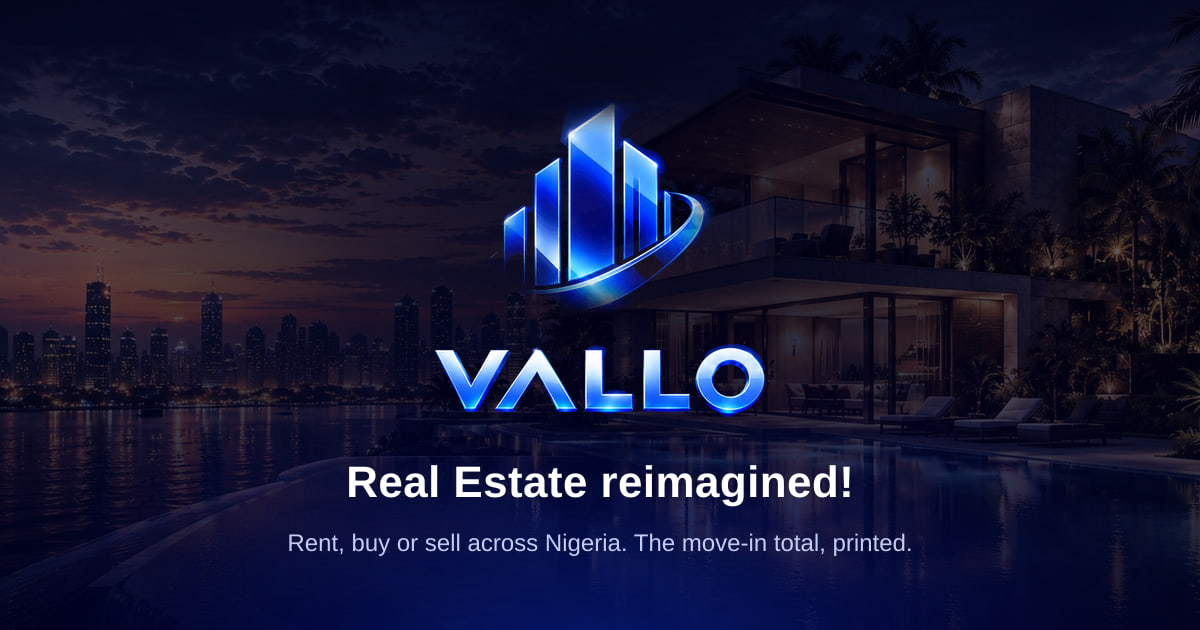
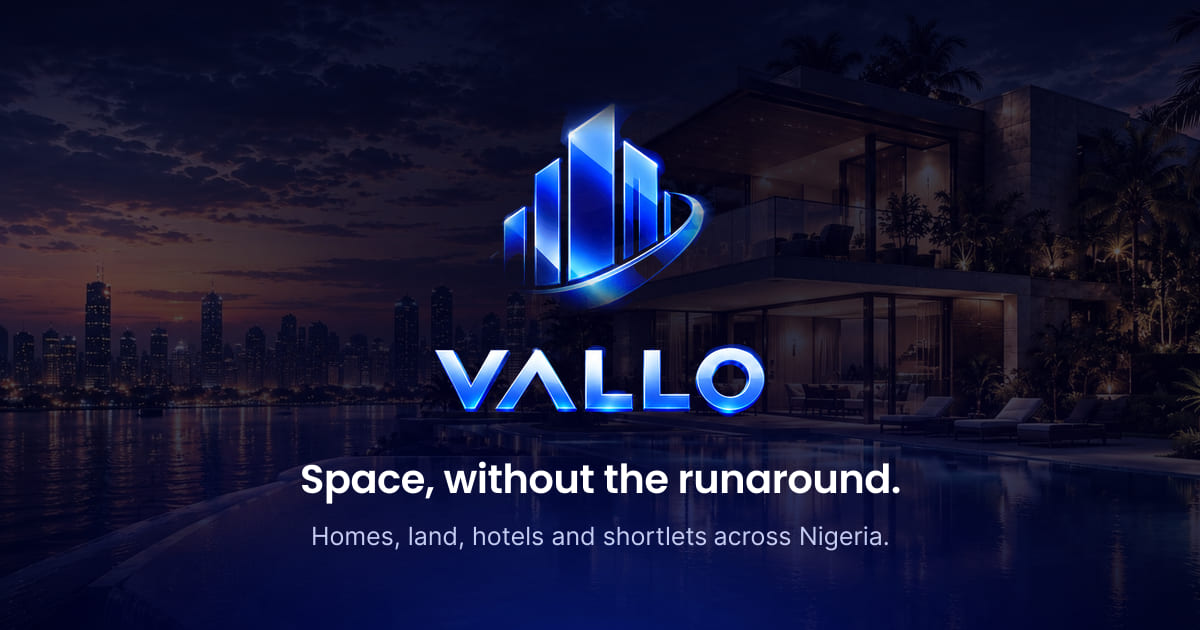
Link previews: every public page unfurls with a picture and its own words
Measured on a running server: /terms, /privacy, /docs, /contact, the auth
pages, /join/<code>, a listing with no photo and others had no og:image
(a page's openGraph replaces the layout's), so they unfurled blank; /check
and every docs chapter showed the home page's words over their own card;
twitter:title was the slogan everywhere; the root card still said "Real
Estate reimagined!"; and the Price Check card's footer printed a domain that
was never registered. Public pages without their own card now name the site
card through publicPageMetadata, as do join, docs chapters and listings with
no photo; /check has its own words; the root layout's twitter block is the
card type only, so each page's Twitter fields come from its own Open Graph;
the footer uses BRAND_DOMAIN; the root card is regenerated on the D1 slogan
and sized to the centre square (117,506 to 96,140 B).

Changed region(s): [[0.2467, 0.7238, 0.7708, 0.8143], [0.2158, 0.8444, 0.7708, 0.8746]]

diff --git a/apps/web/src/lib/site/site-card.test.ts b/apps/web/src/lib/site/site-card.test.ts
@@ -1,0 +1,90 @@
+import { existsSync, readdirSync, readFileSync, statSync } from "node:fs";
+import { dirname, join, relative } from "node:path";
+import { describe, expect, it } from "vitest";
+import { BRAND_DOMAIN } from "@/lib/brand-domain";
+import { SHARE_CARD_FOOTER } from "@/lib/price-check/disclaimer";
+import { OWN_CARD, SITE_CARD } from "./site-card";
+
+/**
+ * NO LINK UNFURLS BLANK, AND NONE UNFURLS AS ANOTHER PAGE (W3, round 5).
+ *
+ * Measured on a running server before this: /terms, /privacy, /docs,
+ * /contact, /sign-in and the invite door /join/<code> carried no og:image at
+ * all, /check and every docs chapter carried the HOME page's og:title and
+ * description over their own card, and every page's twitter:title was the
+ * slogan. Next replaces a layout's whole `openGraph` with a page's, image
+ * included, so these rules are about the source, and this reads it.
+ */
+
+const APP = join(__dirname, "..", "..", "app");
+const ROOT_LAYOUT = join(APP, "layout.tsx");
+
+function pages(dir: string, out: string[] = []): string[] {
+  for (const name of readdirSync(dir)) {
+    const path = join(dir, name);
+    if (statSync(path).isDirectory()) pages(path, out);
+    else if (name === "page.tsx") out.push(path);
+  }
+  return out;
+}
+
+const PUBLIC_TREES = ["(site)", "(auth)", "(landing)", "join", "s"].map((tree) => join(APP, tree)).filter(existsSync);
+const PUBLIC_PAGES = PUBLIC_TREES.flatMap((tree) => pages(tree));
+const hasOwnCard = (page: string) => readdirSync(dirname(page)).some((name) => name.startsWith("opengraph-image."));
+const source = (page: string) => readFileSync(page, "utf8");
+
+describe("every public page unfurls with a picture and its own words", () => {
+  it("finds the public pages", () => {
+    expect(PUBLIC_PAGES.length).toBeGreaterThan(30);
+  });
+
+  it("holds OWN_CARD to the cards on disk", () => {
+    const declared = new Map<string, boolean>();
+    for (const page of PUBLIC_PAGES) {
+      const key = /publicPageMetadata\(\s*"([A-Za-z]+)"/.exec(source(page))?.[1];
+      if (key) declared.set(key, hasOwnCard(page));
+    }
+    expect(declared.size).toBeGreaterThan(10);
+    for (const [key, own] of declared) expect(OWN_CARD.has(key as never), key).toBe(own);
+  });
+
+  it("names the site's card wherever a page writes its own Open Graph and draws no card", () => {
+    const blank = PUBLIC_PAGES.filter((page) => {
+      const src = source(page);
+      if (!/openGraph\s*:/.test(src) || hasOwnCard(page)) return false;
+      return !/SITE_CARD/.test(src);
+    }).map((page) => relative(APP, page));
+    expect(blank).toEqual([]);
+  });
+
+  it("gives a page with its own card its own Open Graph words", () => {
+    /* A card file and a title, with no Open Graph words: the unfurl reads the
+       home page's title under this page's picture. */
+    const borrowed = PUBLIC_PAGES.filter((page) => {
+      const src = source(page);
+      if (!hasOwnCard(page) || !/(generateMetadata|export const metadata)/.test(src)) return false;
+      return !/openGraph\s*:|publicPageMetadata\(/.test(src);
+    }).map((page) => relative(APP, page));
+    expect(borrowed).toEqual([]);
+  });
+
+  it("lets Twitter's words follow each page's Open Graph", () => {
+    const layout = readFileSync(ROOT_LAYOUT, "utf8").replace(/\/\*[\s\S]*?\*\//g, "");
+    const twitter = [...layout.matchAll(/twitter:\s*\{([^}]*)\}/g)].map((m) => m[1]!);
+    expect(twitter.length).toBeGreaterThan(0);
+    for (const body of twitter) expect(body).not.toMatch(/\b(title|description)\s*:/);
+  });
+
+  it("points at the root card the proxy serves signed out", () => {
+    expect(SITE_CARD.url).toBe("/opengraph-image.jpg");
+    expect(existsSync(join(APP, "opengraph-image.jpg"))).toBe(true);
+    expect(statSync(join(APP, "opengraph-image.jpg")).size).toBeLessThanOrEqual(100 * 1024);
+  });
+});
+
+describe("the address a forwarded card prints", () => {
+  it("is the brand's, never the domain nobody registered", () => {
+    expect(SHARE_CARD_FOOTER).toContain(BRAND_DOMAIN);
+    expect(SHARE_CARD_FOOTER).not.toContain("vallo.ng");
+  });
+});

diff --git a/apps/web/src/lib/listings/syndication.ts b/apps/web/src/lib/listings/syndication.ts
@@ -1,5 +1,6 @@
 import type { Metadata } from "next";
 import { publicListingTitle } from "./public-title";
+import { SITE_CARD } from "@/lib/site/site-card";
 
 import type { Listing } from "./types";
 import type { ListingSearchFilter } from "./types";
@@ -251,11 +252,15 @@ export function listingMetadata(listing: Listing | null, origin: string): Metada
         title: "An example listing on Vallo",
         description: EXAMPLE_STATEMENT,
         url: listingUrl(listing, origin),
+        /* The site's card, never a photograph of a place that does not
+           exist; without it the unfurl was blank (`site-card.ts`). */
+        images: [SITE_CARD],
       },
       twitter: {
         card: "summary",
         title: "An example listing on Vallo",
         description: EXAMPLE_STATEMENT,
+        images: [SITE_CARD],
       },
     };
   }
@@ -277,13 +282,14 @@ export function listingMetadata(listing: Listing | null, origin: string): Metada
       title: publicListingTitle(listing),
       description,
       url,
-      ...(listing.photos.length > 0 ? { images: listing.photos.slice(0, 1) } : {}),
+      /* No photograph: the site's card rather than a blank unfurl. */
+      images: listing.photos.length > 0 ? listing.photos.slice(0, 1) : [SITE_CARD],
     },
     twitter: {
       card: listing.photos.length > 0 ? "summary_large_image" : "summary",
       title: publicListingTitle(listing),
       description,
-      ...(listing.photos.length > 0 ? { images: listing.photos.slice(0, 1) } : {}),
+      images: listing.photos.length > 0 ? listing.photos.slice(0, 1) : [SITE_CARD],
     },
   };
 }

diff --git a/apps/web/src/app/layout.tsx b/apps/web/src/app/layout.tsx
@@ -161,11 +161,17 @@ const baseMetadata: Metadata = {
     locale: "en_NG",
     type: "website",
   },
+  /*
+   * THE CARD TYPE ONLY (W3, round 5). A title and description here were
+   * inherited by every page that set its own Open Graph words and no Twitter
+   * ones, which is every page: /terms, /check, a share door all unfurled on X,
+   * Telegram and Slack as "Vallo. Space, without the runaround." over their
+   * own picture. With only the card type here, Next fills the Twitter title,
+   * description and image from each page's own Open Graph (`postProcessMetadata`),
+   * so the two can never disagree again.
+   */
   twitter: {
     card: "summary_large_image",
-    title: "Vallo. Rent, buy or stay, without the runaround.",
-    description:
-      "Homes, land, hotels and shortlets across Nigeria, with the cost of moving in written down before you call anybody. Hotels, apartments and restaurant tables on Vallo Stays. One account, one inbox.",
   },
   /* UI-16: no site-wide robots tag. Indexable is the default with no tag at
      all; stating "index, follow" here put it beside the "noindex" that a
@@ -238,7 +244,7 @@ export async function generateMetadata(): Promise<Metadata> {
       description: site.shareDescription,
       ...openGraphLocales(locale),
     },
-    twitter: { ...baseMetadata.twitter, title: site.title, description: site.shareDescription },
+    twitter: { ...baseMetadata.twitter },
   };
 }
 

diff --git a/apps/web/src/lib/site/site-card.ts b/apps/web/src/lib/site/site-card.ts
@@ -1,0 +1,37 @@
+import type { PublicPageKey } from "@vallo/i18n";
+
+/**
+ * THE SITE'S OWN CARD, FOR A PAGE THAT HAS NONE (W3, round 5).
+ *
+ * Next resolves Open Graph per segment, and a page that sets `openGraph`
+ * REPLACES the layout's whole object, image included; the image file beside
+ * the root layout is merged only at the root. So every public page that wrote
+ * its own Open Graph words and had no `opengraph-image` of its own unfurled
+ * with NO picture at all: /terms, /privacy, /docs, /contact, /sign-in (which is
+ * also what every signed-out link to a closed page lands on) and the invite
+ * door /join, the one link the referral programme asks members to post.
+ *
+ * Those pages name this card. It is the root file at its public path
+ * (`proxy.ts` serves it signed out), so there is still only one picture.
+ */
+export const SITE_CARD = {
+  url: "/opengraph-image.jpg",
+  width: 1200,
+  height: 630,
+  type: "image/jpeg",
+  alt: "Vallo. Space, without the runaround.",
+} as const;
+
+/**
+ * The public pages that draw their own card (an `opengraph-image` beside the
+ * page). They must NOT name `SITE_CARD`: an `images` key on the page's Open
+ * Graph would win over its own file. `site-card.test.ts` holds this list to
+ * the files on disk.
+ */
+export const OWN_CARD: ReadonlySet<PublicPageKey> = new Set<PublicPageKey>([
+  "about",
+  "help",
+  "safety",
+  "standards",
+  "receiptCheck",
+]);

diff --git a/apps/web/src/app/join/[code]/page.tsx b/apps/web/src/app/join/[code]/page.tsx
@@ -6,6 +6,7 @@ import { Logo } from "@/design-system/brand/Logo";
 import { inviteDoor } from "@/lib/referral/server";
 import { normaliseInviteCode } from "@/lib/referral/code";
 import { Icon3D } from "@/components/ui/Icon3D";
+import { SITE_CARD } from "@/lib/site/site-card";
 
 export const dynamic = "force-dynamic";
 
@@ -19,7 +20,7 @@ export async function generateMetadata({ params }: { params: Promise<{ code: str
   const copy = getDictionary(await getLocale()).publicDoors.invite;
   const { door } = await doorFor((await params).code);
   const title = door?.found && door.firstName ? copy.doorTitle.replace("{name}", door.firstName) : copy.doorTitleNoName;
-  return { title, description: copy.doorBody, robots: { index: false, follow: false }, openGraph: { title, description: copy.doorBody } };
+  return { title, description: copy.doorBody, robots: { index: false, follow: false }, openGraph: { type: "website", siteName: "Vallo", title, description: copy.doorBody, images: [SITE_CARD] } };
 }
 
 /**

diff --git a/apps/web/src/lib/price-check/disclaimer.ts b/apps/web/src/lib/price-check/disclaimer.ts
@@ -1,3 +1,5 @@
+import { BRAND_DOMAIN } from "@/lib/brand-domain";
+
 /**
  * THE ONE PLACE IN THIS PRODUCT WHERE THE REGULATED WORD APPEARS.
  *
@@ -86,8 +88,13 @@ export function disclaimerSentence(): string {
  * does NOT contain the regulated word, because a card is a fragment and a
  * fragment carrying the word without the sentence that disclaims it is the
  * implication the Act is about.
+ *
+ * The address is `BRAND_DOMAIN`. It read "vallo.ng", the domain nobody ever
+ * registered (`brand-domain.test.ts`), on the one artefact built to be
+ * forwarded to strangers: every Price Check card sent its readers to an
+ * address anybody could buy.
  */
-export const SHARE_CARD_FOOTER = "Asking prices, not sold prices. vallo.ng";
+export const SHARE_CARD_FOOTER = `Asking prices, not sold prices. ${BRAND_DOMAIN}`;
 
 /**
  * The sentence above the comparables, and the most valuable copy in the

diff --git a/apps/web/src/lib/i18n/public-metadata.ts b/apps/web/src/lib/i18n/public-metadata.ts
@@ -4,6 +4,7 @@ import { headers } from "next/headers";
 import { getDictionary, LOCALES, type Locale, type PublicPageKey } from "@vallo/i18n";
 import { getLocale } from "@/lib/locale";
 import { siteUrl } from "@/lib/site";
+import { OWN_CARD, SITE_CARD } from "@/lib/site/site-card";
 import {
   alternateUrls,
   isLocalizablePath,
@@ -72,6 +73,8 @@ export async function publicPageMetadata(key: PublicPageKey, extra: Metadata = {
       ...(page.description ? { description: page.description } : {}),
       ...openGraphLocales(locale),
       ...(alternates?.canonical ? { url: alternates.canonical as string } : {}),
+      /* A page without its own card names the site's, or it unfurls blank. */
+      ...(OWN_CARD.has(key) ? {} : { images: [SITE_CARD] }),
     },
     ...extra,
   };

diff --git a/apps/web/src/app/(site)/docs/[slug]/page.tsx b/apps/web/src/app/(site)/docs/[slug]/page.tsx
@@ -11,6 +11,7 @@ import { DepthWords } from "@/components/motion/DepthWords";
 import { MotionReveal } from "@/components/motion/Reveal";
 import { IconPlate } from "@/components/ui/IconPlate";
 import { lineGlyphFor } from "@/design-system/icons/glass-to-line";
+import { SITE_CARD } from "@/lib/site/site-card";
 
 /**
  * One chapter.
@@ -39,6 +40,9 @@ export async function generateMetadata({
   return {
     title: chapter.title,
     description: chapter.summary,
+    /* The chapter's own words on the unfurl (it read the home page's), and
+       the site's card, which a page that sets Open Graph must name. */
+    openGraph: { type: "article", siteName: "Vallo", title: chapter.title, description: chapter.summary, images: [SITE_CARD] },
   };
 }
 

diff --git a/apps/web/src/app/(site)/check/page.tsx b/apps/web/src/app/(site)/check/page.tsx
@@ -23,7 +23,12 @@ export const dynamic = "force-dynamic";
 
 export async function generateMetadata(): Promise<Metadata> {
   const t = getDictionary(await getLocale());
-  return { title: t.trustDoors.check.metaTitle, description: t.trustDoors.check.lede };
+  const title = t.trustDoors.check.metaTitle;
+  const description = t.trustDoors.check.lede;
+  /* Its own Open Graph words, or the unfurl reads the home page's title and
+     description over this page's card. No `images`: the card is the file
+     beside this page. */
+  return { title, description, openGraph: { type: "website", siteName: "Vallo", title, description } };
 }
 
 export default async function CheckPage({ searchParams }: { searchParams: Promise<{ q?: string | string[] }> }) {

diff --git a/apps/web/src/app/(dev)/preview/door/image/route.tsx b/apps/web/src/app/(dev)/preview/door/image/route.tsx
@@ -59,7 +59,7 @@ export async function GET(request: Request) {
           headline: "2 bedroom flats in Yaba",
           range: "Asking ₦1.8m to ₦2.6m a year",
           basis: "Based on 6 Vallo listings, September 2026",
-          footer: "Asking prices, not sold prices. vallo.ng",
+          footer: "Asking prices, not sold prices. vallospaces.com",
           count: 6,
           meterWord: "6 listings",
           month: "September 2026",
